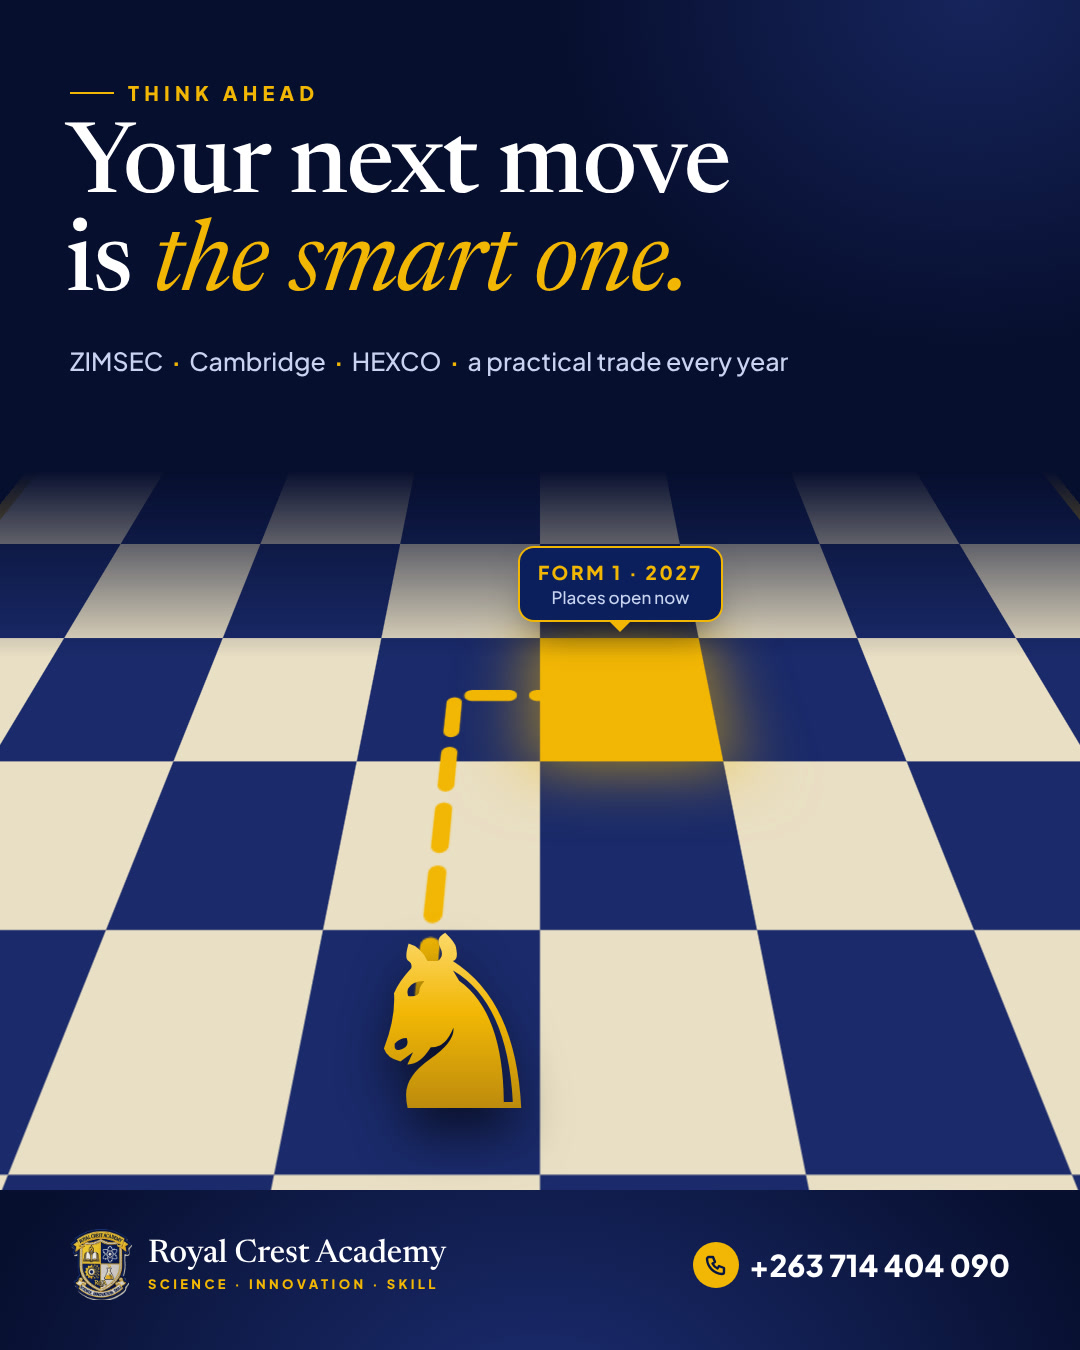
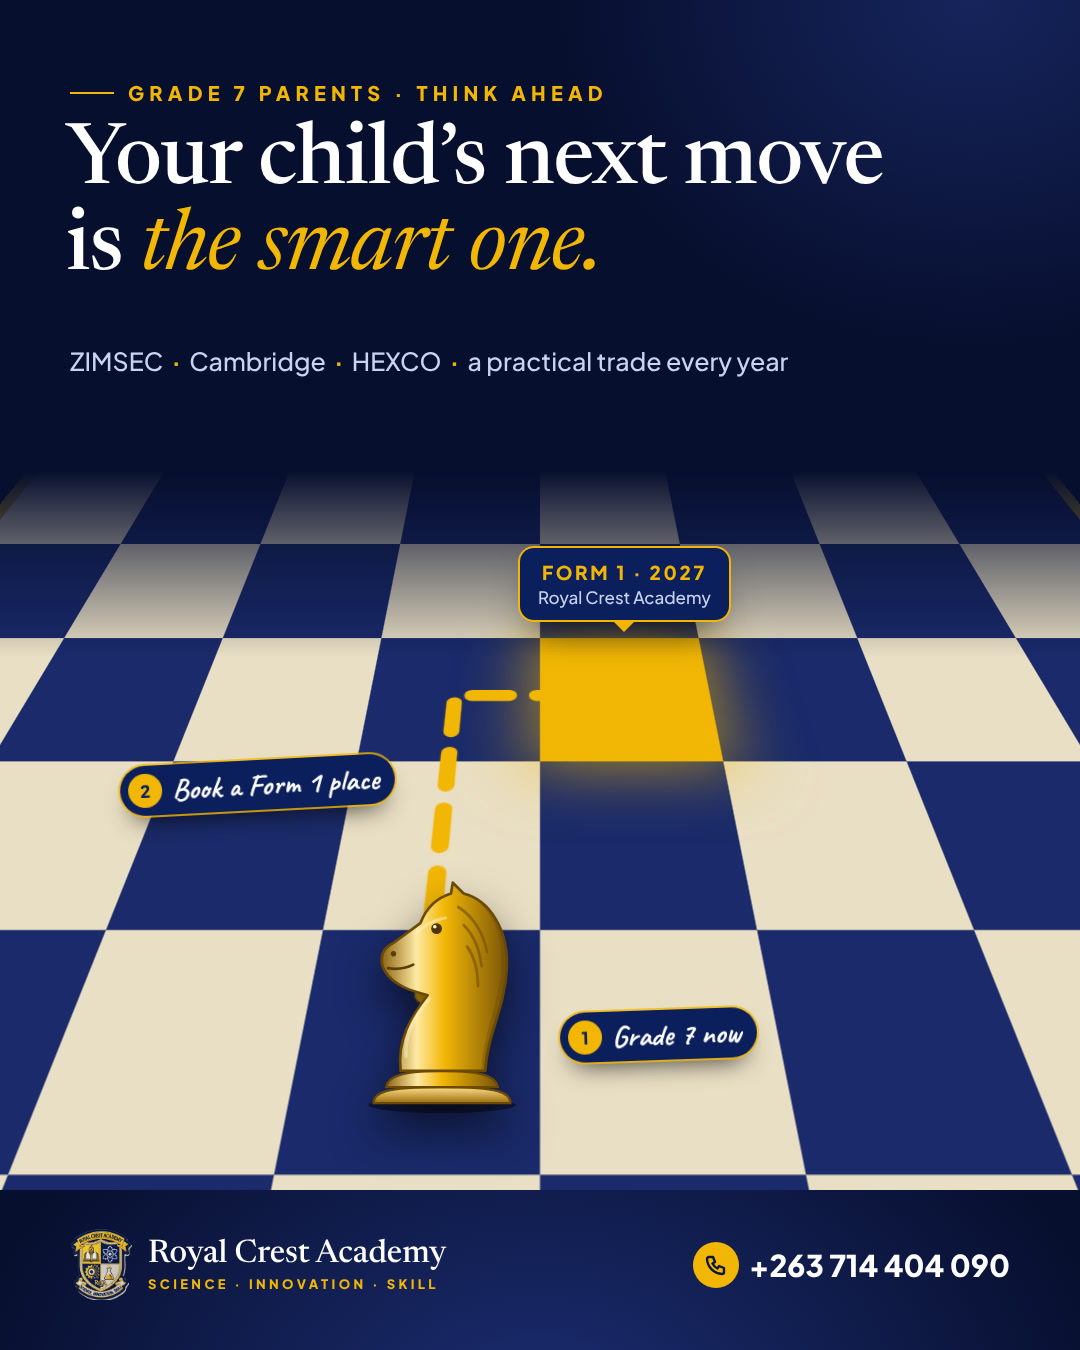
Chess post: drawn Staunton knight and Grade 7 → Form 1 annotations
Claude-Session: https://claude.ai/code/session_01HHSSeuzikgdkEiDRBqXNst

diff --git a/studio/js/posts.js b/studio/js/posts.js
@@ -34,7 +34,7 @@
     'verse-path': { label: "Verse of the day (forest)", formats: ['portrait', 'square'], caption: ["🌅 Morning devotion: Trusting God for the journey ahead", "", "📖 “Trust in the LORD with all thine heart; and lean not unto thine own understanding. In all thy ways acknowledge him, and he shall direct thy paths.” Proverbs 3:5–6", "", "Every great vision begins with faith before the results become visible. What seems impossible today can become tomorrow’s testimony.", "", "Heavenly Father, guide the Royal Crest Academy family today. Strengthen our faith, bless our preparations and make Royal Crest a beacon of knowledge, character and excellence for generations to come. In Jesus’ name, Amen. 🙏", "", "✨ Royal Crest Academy is built on faith, strengthened by unity and guided by God.", "", "Have a blessed and fruitful Tuesday, Royal Crest family!"], plain: true },
     'physics-quantum': { label: "Physics: the quantum world", formats: ['portrait', 'square'], caption: ["The nucleus of an atom is about 100,000 times smaller than the atom itself. ⚛", "", "Zoom in: atom → nucleus → proton → quarks. A proton is two up quarks and one down quark.", "In 1905 Albert Einstein showed that light travels in tiny packets, now called photons. That idea won him the 1921 Nobel Prize in Physics.", "“Imagination is more important than knowledge.” Albert Einstein"] },
     'physics-sound': { label: "Physics: sound in water", formats: ['portrait', 'square'], caption: ["Did you know? Sound travels about 4 times faster in water than in air. 🌊", "", "In one second, sound goes about 343 metres through air, but about 1,480 metres through water.", "Water is much harder to squeeze than air, so sound moves through it faster. That is why whales can hear each other from very far away. 🐋"] },
-    'chess-neat': { label: "Chess: the smart move", formats: ['portrait', 'square'], caption: ["Every great player thinks a few moves ahead. ♞", "", "Royal Crest Academy: ZIMSEC, Cambridge and HEXCO, plus a practical trade every year.", "Make the smart move. Form 1 places for 2027 are open now."] },
+    'chess-neat': { label: "Chess: the smart move", formats: ['portrait', 'square'], caption: ["Grade 7 parents: every great player thinks a few moves ahead. ♞", "", "Move 1: your child finishes Grade 7. Move 2: book a Form 1 place at Royal Crest Academy for 2027.", "ZIMSEC, Cambridge and HEXCO, plus a practical trade every year."] },
     'zh-pictures': { label: "Mandarin: picture characters", formats: ['portrait', 'square'], caption: ["Chinese characters that are pictures 🖌", "", "人 rén person • 山 shān mountain • 日 rì sun • 木 mù tree", "The oldest characters were carved on bones and shells more than 3,000 years ago. Learn to read them with us at Mandarin Connect."] },
     'zh-count': { formats: ['portrait', 'square'], label: "Mandarin: count to ten", caption: ["Count to ten in Mandarin 🏮", "", "yī, èr, sān, sì, wǔ, liù, qī, bā, jiǔ, shí", "Fun fact: 八 (bā) is a lucky number in China because it sounds like the word for wealth."] },
     'zh-great-wall': { formats: ['portrait', 'square'], label: "Mandarin: the Great Wall", caption: ["长城 Chángchéng: the Great Wall 🏯", "", "More than 21,000 km of history. At Mandarin Connect our learners explore the language and the culture behind it."] },
@@ -478,13 +478,28 @@
     <div class="why">How far sound goes in <em>one second.</em> Water is much harder to squeeze than air, so sound moves through it faster.</div></div>
   <div class="brand light"><div class="b"><img src="${crest}" alt=""><div><b>Royal Crest Academy</b><small>PHYSICS · SCIENCES</small></div></div><div class="ph"><i>${PHONE_ICON}</i>${full}</div></div>`,
     'chess-neat': (crest, phone, P, full) => `<div class="glow"></div>
-  <div class="abs kick" style="color:var(--gold2)">Think ahead</div>
-  <div class="abs h">Your next move<br>is <em>the smart one.</em></div>
+  <div class="abs kick" style="color:var(--gold2)">Grade 7 parents · think ahead</div>
+  <div class="abs h">Your child’s next move<br>is <em>the smart one.</em></div>
   <div class="abs sub">ZIMSEC <b>·</b> Cambridge <b>·</b> HEXCO <b>·</b> a practical trade every year</div>
   <div class="abs stage"><div class="board">${Array.from({ length: 64 }, (_, i) => { const r = Math.floor(i / 8), c = i % 8; return `<i class="${(r + c) % 2 ? 'd' : 'l'}${r === 2 && c === 4 ? ' g' : ''}"></i>`; }).join('')}
     <svg class="mv" viewBox="0 0 8 8"><path d="M3.5 4.3 V2.5 H4.25" fill="none" stroke="#f2b705" stroke-width=".09" stroke-dasharray=".22 .16" stroke-linecap="round"/><path d="M4.18 2.33 L4.42 2.5 L4.18 2.67" fill="none" stroke="#f2b705" stroke-width=".09" stroke-linecap="round" stroke-linejoin="round"/></svg></div></div>
-  <div class="abs knight">♞</div>
-  <div class="abs goal"><b>FORM 1 · 2027</b>Places open now</div>
+  <svg class="abs knight" viewBox="0 0 200 260"><defs>
+    <linearGradient id="knG" x1="0" x2="1"><stop offset="0" stop-color="#8a6410"/><stop offset=".28" stop-color="#ffe9a3"/><stop offset=".5" stop-color="#f2b705"/><stop offset="1" stop-color="#7a5508"/></linearGradient>
+    <linearGradient id="knB" x1="0" y1="0" x2="0" y2="1"><stop offset="0" stop-color="#ffe08a"/><stop offset="1" stop-color="#9a6d0c"/></linearGradient></defs>
+    <ellipse cx="100" cy="250" rx="82" ry="9" fill="#000" opacity=".45"/>
+    <path d="M24 248 C24 236 36 230 100 230 C164 230 176 236 176 248 Z" fill="url(#knB)" stroke="#6b4a06" stroke-width="2.5"/>
+    <path d="M38 230 C40 218 56 212 100 212 C144 212 160 218 162 230 Z" fill="url(#knG)" stroke="#6b4a06" stroke-width="2.5"/>
+    <path d="M54 212 C50 176 66 152 84 128 C70 124 52 120 40 106 C28 92 32 76 46 70 L76 48 C82 32 94 20 110 15 L112 3 L124 15 C152 22 174 54 172 98 C170 142 150 172 148 212 Z" fill="url(#knG)" stroke="#6b4a06" stroke-width="3" stroke-linejoin="round"/>
+    <path d="M124 15 C150 24 168 54 166 96 C164 136 146 168 144 212 L150 212 C152 172 172 142 172 98 C174 54 152 22 124 15 Z" fill="#6b4a06" opacity=".35"/>
+    <path d="M118 30 C134 40 146 58 150 80 M124 50 C136 62 142 78 144 96 M128 74 C138 88 140 104 140 118" fill="none" stroke="#7a5508" stroke-width="3" stroke-linecap="round" opacity=".7"/>
+    <circle cx="94" cy="54" r="6" fill="#4a3304"/><circle cx="92" cy="52" r="2" fill="#fff3c4"/>
+    <path d="M40 98 C52 100 60 98 68 94" fill="none" stroke="#5a3e05" stroke-width="3" stroke-linecap="round"/>
+    <circle cx="46" cy="82" r="3" fill="#5a3e05"/>
+    <path d="M70 60 C80 50 92 44 104 42" fill="none" stroke="#fff3c4" stroke-width="3" stroke-linecap="round" opacity=".55"/>
+    <path d="M60 196 C58 170 70 150 86 132" fill="none" stroke="#fff3c4" stroke-width="4" stroke-linecap="round" opacity=".45"/></svg>
+  <div class="abs goal"><b>FORM 1 · 2027</b>Royal Crest Academy</div>
+  <div class="abs note n1"><i>1</i>Grade 7 now</div>
+  <div class="abs note n2"><i>2</i>Book a Form 1 place</div>
   <div class="brand light"><div class="b"><img src="${crest}" alt=""><div><b>Royal Crest Academy</b><small>SCIENCE · INNOVATION · SKILL</small></div></div><div class="ph"><i>${PHONE_ICON}</i>${full}</div></div>`,
     'zh-pictures': (crest, phone, P, full) => `<div class="paper"></div>
   <div class="abs kick" style="left:70px;top:70px;color:var(--red)">Mandarin Connect · characters</div>

diff --git a/studio/css/posts.css b/studio/css/posts.css
@@ -653,7 +653,7 @@
 /* chess-neat: one gold knight on a board in perspective, its L-shaped move landing on Form 1 · 2027 */
 .flyer.ps-chess-neat { background: radial-gradient(900px 640px at 50% 105%, #1c2d72 0%, transparent 65%), radial-gradient(600px 500px at 90% 0%, #16245c 0%, transparent 70%), #070f2e; color: #fff; overflow: hidden; }
 .flyer.ps-chess-neat .kick { left: 70px; top: 80px; }
-.flyer.ps-chess-neat .h { left: 66px; top: 120px; font: 500 100px/.98 PsSerif, serif; letter-spacing: -.015em; }
+.flyer.ps-chess-neat .h { left: 66px; top: 120px; font: 500 86px/1 PsSerif, serif; letter-spacing: -.015em; }
 .flyer.ps-chess-neat .h em { font-style: italic; color: var(--gold2); }
 .flyer.ps-chess-neat .sub { left: 70px; top: 345px; font: 500 25px PsSans, sans-serif; color: #c9d4f0; }
 .flyer.ps-chess-neat .sub b { color: var(--gold2); padding: 0 4px; }
@@ -663,7 +663,7 @@
 .flyer.ps-chess-neat .board .l { background: #e9dfc4; } .flyer.ps-chess-neat .board .d { background: #1a2a6a; }
 .flyer.ps-chess-neat .board .g { background: #f2b705; box-shadow: 0 0 50px 8px rgba(242,183,5,.6); position: relative; z-index: 1; }
 .flyer.ps-chess-neat .board .mv { position: absolute; inset: 0; width: 100%; height: 100%; z-index: 2; }
-.flyer.ps-chess-neat .knight { left: 345px; top: 905px; font: 240px/1 "DejaVu Sans", serif; background: linear-gradient(180deg, #ffe38a, #f2b705 45%, #a87a10); -webkit-background-clip: text; background-clip: text; color: transparent; filter: drop-shadow(0 26px 24px rgba(0,0,0,.6)); }
+.flyer.ps-chess-neat .knight { left: 352px; top: 880px; width: 180px; height: 234px; filter: drop-shadow(0 22px 22px rgba(0,0,0,.55)); }
 .flyer.ps-chess-neat .goal { left: 520px; top: 548px; padding: 12px 18px; border-radius: 14px; background: #0a1f5c; box-shadow: 0 0 0 2px #f2b705, 0 20px 40px -16px rgba(0,0,0,.8); font: 500 17px PsSans, sans-serif; color: #c9d4f0; text-align: center; }
 .flyer.ps-chess-neat .goal::after { content: ""; position: absolute; left: 50%; bottom: -12px; margin-left: -10px; border: 10px solid transparent; border-bottom: 0; border-top-color: #f2b705; }
 .flyer.ps-chess-neat .goal b { display: block; font: 800 19px PsSans, sans-serif; letter-spacing: .14em; color: var(--gold2); margin-bottom: 2px; }
@@ -672,5 +672,12 @@
 .flyer.ps-chess-neat.f-square .h { top: 108px; font-size: 80px; }
 .flyer.ps-chess-neat.f-square .sub { top: 292px; font-size: 22px; }
 .flyer.ps-chess-neat.f-square .stage { top: 360px; -webkit-mask-image: linear-gradient(180deg, transparent 0, #000 22%, #000 72%, transparent 90%); mask-image: linear-gradient(180deg, transparent 0, #000 22%, #000 72%, transparent 90%); }
-.flyer.ps-chess-neat.f-square .knight { left: 362px; top: 770px; font-size: 196px; }
+.flyer.ps-chess-neat.f-square .knight { left: 368px; top: 770px; width: 150px; height: 195px; }
 .flyer.ps-chess-neat.f-square .goal { top: 438px; }
+.flyer.ps-chess-neat .note { display: flex; align-items: center; gap: 10px; padding: 8px 16px 8px 8px; border-radius: 30px; background: #0a1f5c; box-shadow: 0 0 0 2px rgba(242,183,5,.8), 0 14px 26px -12px rgba(0,0,0,.8); font: 700 30px/1 Caveat, cursive; color: #fff; white-space: nowrap; }
+.flyer.ps-chess-neat .note i { width: 34px; height: 34px; border-radius: 50%; background: var(--gold2); color: #0a1f5c; display: grid; place-items: center; font: 800 17px PsSans, sans-serif; font-style: normal; }
+.flyer.ps-chess-neat .n1 { left: 560px; top: 1010px; transform: rotate(-2deg); }
+.flyer.ps-chess-neat .n2 { left: 120px; top: 760px; transform: rotate(-3deg); }
+.flyer.ps-chess-neat.f-square .n1 { left: 540px; top: 860px; }
+.flyer.ps-chess-neat.f-square .n2 { left: 110px; top: 660px; }
+.flyer.ps-chess-neat.f-square .h { font-size: 70px; }

diff --git a/studio/social-extra/README.md b/studio/social-extra/README.md
@@ -35,4 +35,4 @@ The Open Day date isn't set anywhere yet; add it to the caption when it is fixed
 | `physics-quantum-{portrait,square}.jpg` | Physics: the quantum world (atom → nucleus → proton → quarks; Einstein, E = mc², photons, 1921 Nobel Prize) |
 | `physics-sound-in-water-{portrait,square}.jpg` | Physics did-you-know: sound is ~4× faster in water (1,480 m/s) than air (343 m/s) |
 | `physics-50/` | 50 physics "Did you know?" flyers (square), one per fact in `studio/data/physics-facts.json`, cycling through all 7 templates; `captions.txt` has a caption for each. Re-render with `studio/tools/render_facts.mjs` |
-| `chess-smart-move-{portrait,square}.jpg` | Chess: one gold knight on a board in perspective, L-move onto a gold "Form 1 · 2027" square (neater redo of the chess post) |
+| `chess-smart-move-{portrait,square}.jpg` | Chess for Grade 7 parents: SVG Staunton knight, L-move ① Grade 7 now → ② book a Form 1 place → Form 1 · 2027 |
